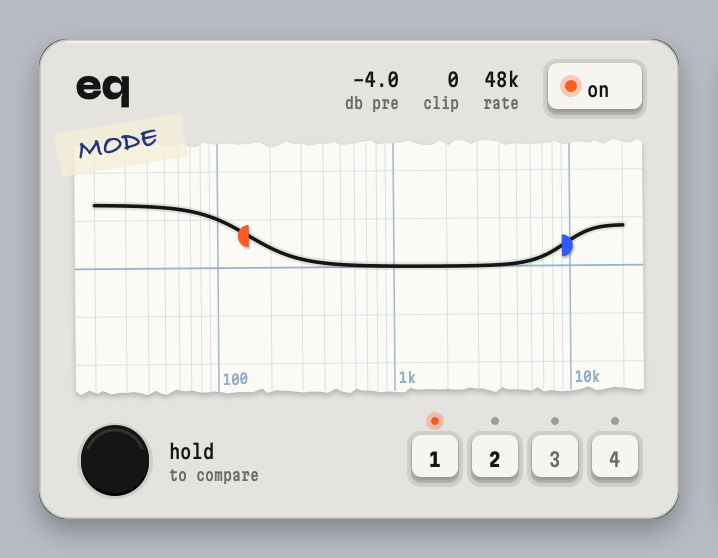
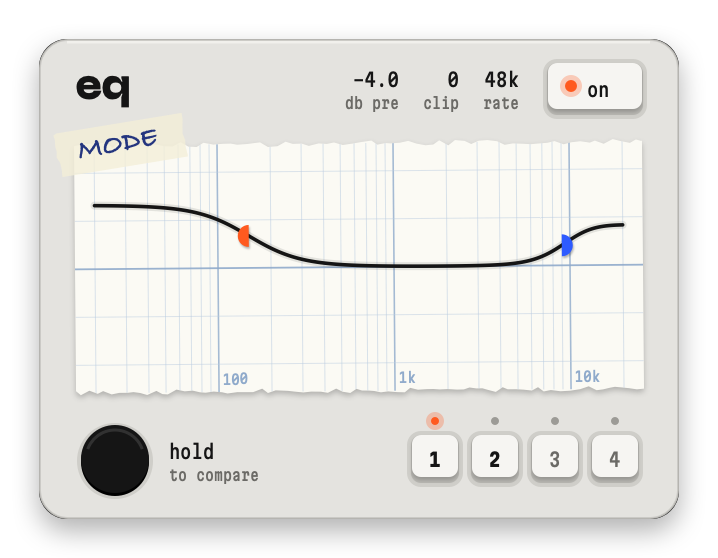
README: the face on a clear ground, no title line; eq render <png> clear

Changed region(s): [[0.0, 0.0, 1.0, 1.0]]

diff --git a/Sources/Face.swift b/Sources/Face.swift
@@ -573,7 +573,7 @@ func statusGlyph(bands: [Band], fs: Double, live: Bool) -> NSImage {
 }
 
 /// eq render <file.png>: draws faces offline at 2x for review, on a plain desk.
-func renderFace(_ faces: [Face], to path: String) {
+func renderFace(_ faces: [Face], to path: String, ground: NSColor? = Palette.rgb(0xB8BCC2)) {
     let pad: CGFloat = 28, gap: CGFloat = 24
     let W = pad * 2 + CGFloat(faces.count) * FaceView.size.width + CGFloat(faces.count - 1) * gap
     let H = pad * 2 + FaceView.size.height
@@ -582,7 +582,7 @@ func renderFace(_ faces: [Face], to path: String) {
     rep.size = NSSize(width: W, height: H)
     NSGraphicsContext.saveGraphicsState()
     NSGraphicsContext.current = NSGraphicsContext(bitmapImageRep: rep)
-    Palette.rgb(0xB8BCC2).setFill(); NSRect(x: 0, y: 0, width: W, height: H).fill()
+    if let ground { ground.setFill(); NSRect(x: 0, y: 0, width: W, height: H).fill() }
     for (i, f) in faces.enumerated() {
         let v = FaceView(frame: NSRect(origin: .zero, size: FaceView.size)); v.face = f
         let ox = pad + CGFloat(i) * (FaceView.size.width + gap)

diff --git a/Sources/main.swift b/Sources/main.swift
@@ -10,7 +10,7 @@ case "render":
     a.slots = [true, true, false, false]; a.activeSlot = 0
     var b = a; b.held = true; b.flat = 1; b.enabled = true
     var c = Face(); c.device = "MacBook Pro Speakers"; c.curve = nil; c.running = false; c.enabled = false
-    renderFace([a, b, c], to: args.count > 1 ? args[1] : "face.png")
+    renderFace([a, b, c], to: args.count > 1 ? args[1] : "face.png", ground: args.count > 2 && args[2] == "clear" ? nil : Palette.rgb(0xB8BCC2))
     exit(0)
 default:
     let app = NSApplication.shared

diff --git a/README.md b/README.md
@@ -1,7 +1,5 @@
 <p align="center"><img src="docs/face.png" width="440" alt="eq"></p>
 
-# eq
-
 A system-wide equalizer for macOS that lives in the menu bar. It reshapes everything playing on your output device. There is no audio driver: eq listens through a Core Audio process tap and plays the result back to the same device.
 
 macOS 15 or later, Apple Silicon. Tested on macOS 27.0.1 (26A434), M4.
